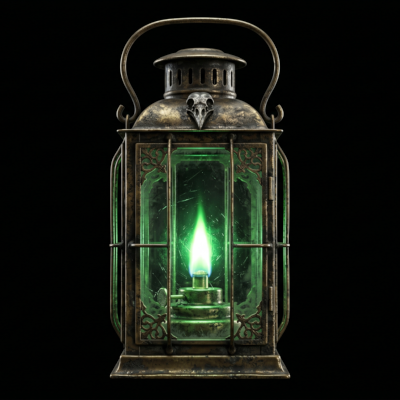
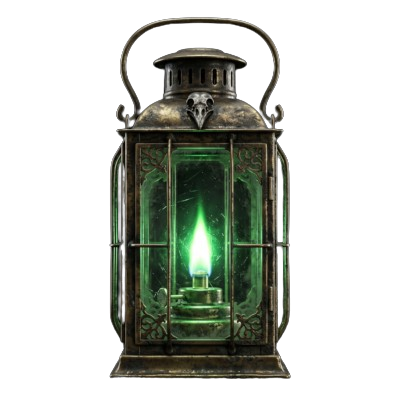
iOS test fix 6

diff --git a/css/style.css b/css/style.css
@@ -184,18 +184,10 @@ turbo-frame#main-content {
     width: 90px; /* Adjust to preferred size */
     height: 90px;
     flex-shrink: 0;
-    
-    /* Flexbox flow instead of absolute positioning */
-    position: relative; 
-    margin-right: 10px; /* Space between lantern and title */
-    
-    /* THE FIX: Isolate the element to stop iOS from guessing transparency */
-    isolation: isolate;
-    
-    /* The mask defines the glow shape */
-    -webkit-mask-image: radial-gradient(closest-side, rgba(0,0,0,1) 95%, rgba(0,0,0,0) 95%);
-mask-image: radial-gradient(closest-side, rgba(0,0,0,1) 95%, rgba(0,0,0,0) 95%);
     mix-blend-mode: screen;
+    position: relative; 
+    margin-right: 0px;
+    isolation: isolate;
 }
 
 .lantern-img {
